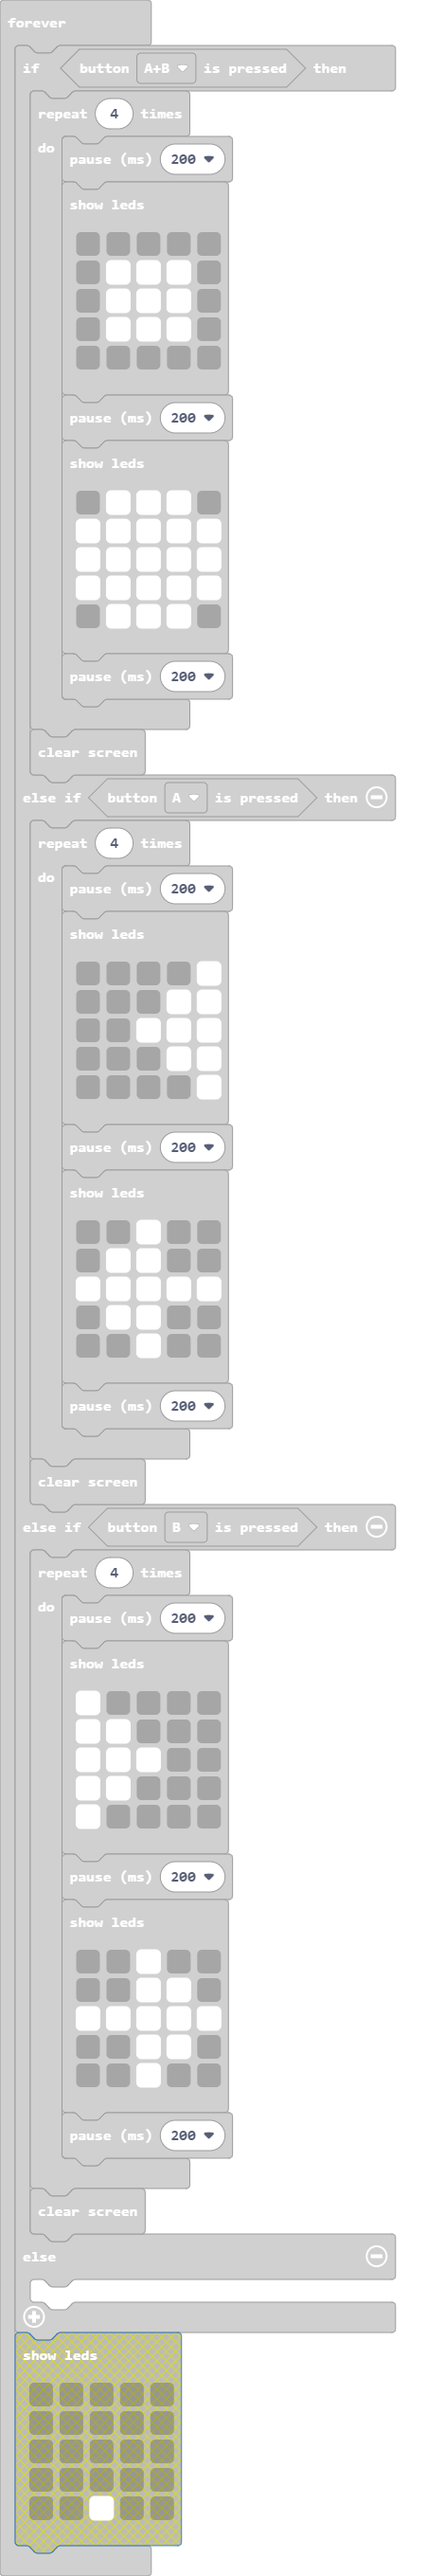
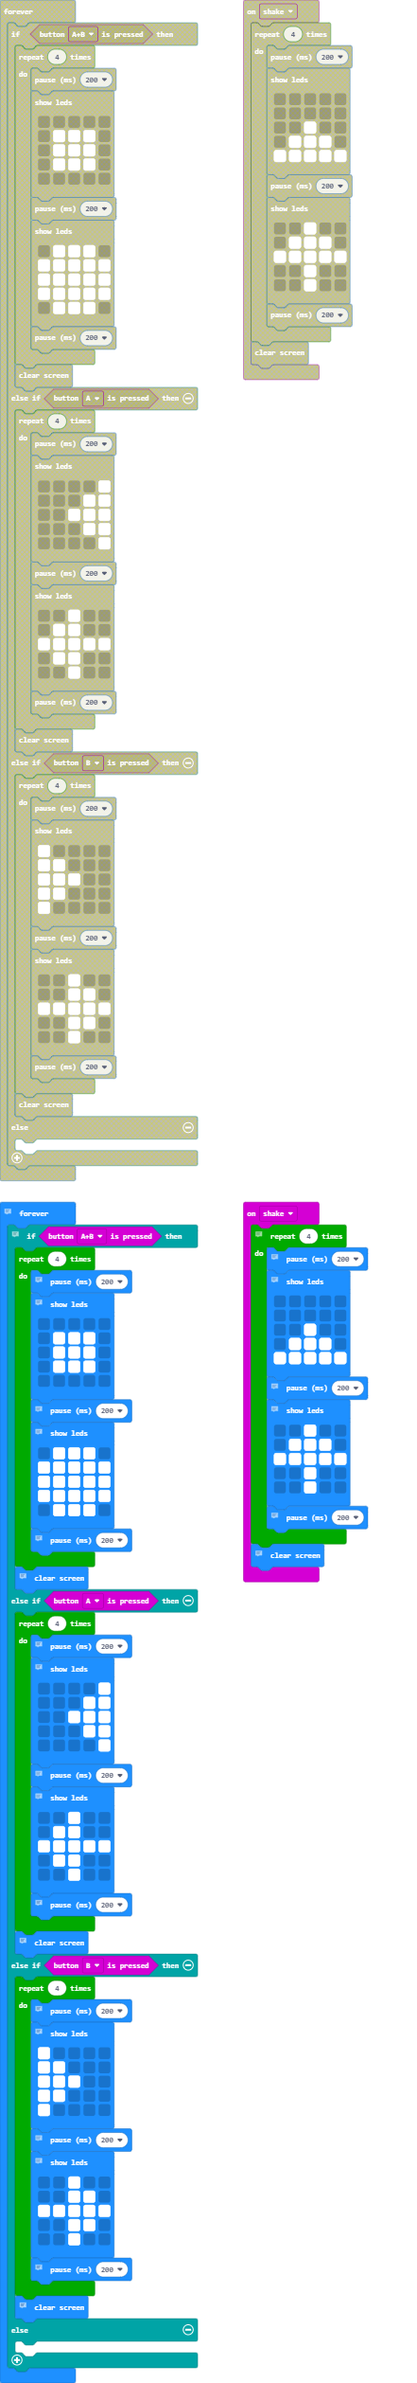
code commented

diff --git a/main.ts b/main.ts
@@ -1,6 +1,10 @@
 input.onGesture(Gesture.Shake, function () {
+    // acción que se desarrolla al agitar el microbit activando el acelerómetro (mostrar flecha hacia arriba que indica movimiento en la bicicleta)
     for (let index = 0; index < 4; index++) {
+        // la flecha hacia arriba va a titilar 4 veces
+        // pausa de 200 milisegundos
         basic.pause(200)
+        // muestra la flecha hacia arriba de forma parcial en pantalla
         basic.showLeds(`
             . . . . .
             . . . . .
@@ -8,7 +12,9 @@ input.onGesture(Gesture.Shake, function () {
             . # # # .
             # # # # #
             `)
+        // pausa de 200 milisegundos
         basic.pause(200)
+        // muestra flecha hacia arriba completa en pantalla
         basic.showLeds(`
             . . # . .
             . # # # .
@@ -16,14 +22,22 @@ input.onGesture(Gesture.Shake, function () {
             . . # . .
             . . # . .
             `)
+        // pausa de 200 milisegundos
         basic.pause(200)
     }
+    // limpiar pantalla cuando la bicicleta esté detenida
     basic.clearScreen()
 })
+// esta parte del código controla a los condicionales de los botones A, B y A+B
 basic.forever(function () {
+    // si se presionan los dos botones A y B al tiempo
+    // este condicional va vacío, incluso no es necesario tenerlo. El único resultado que devuelve es tener la pantalla limpia.
     if (input.buttonIsPressed(Button.AB)) {
         for (let index = 0; index < 4; index++) {
+            // muestre cuatro veces la señal de alto o de detenerse
+            // pausa de 200 milisegundos
             basic.pause(200)
+            // muestre la señal de detenerse de forma parcial en pantalla
             basic.showLeds(`
                 . . . . .
                 . # # # .
@@ -31,7 +45,9 @@ basic.forever(function () {
                 . # # # .
                 . . . . .
                 `)
+            // pausa de 200 milisegundos
             basic.pause(200)
+            // muestre la señal de detenerse de forma completa en pantalla
             basic.showLeds(`
                 . # # # .
                 # # # # #
@@ -39,12 +55,17 @@ basic.forever(function () {
                 # # # # #
                 . # # # .
                 `)
+            // pausa de 200 milisegundos
             basic.pause(200)
         }
+        // limpiar pantalla si la bicicleta se ha frenado o detenido
         basic.clearScreen()
     } else if (input.buttonIsPressed(Button.A)) {
         for (let index = 0; index < 4; index++) {
+            // muestre cuatro veces la flecha hacia la izquierda
+            // pausa de 200 milisegundos
             basic.pause(200)
+            // muestre la flecha izquierda de forma parcial en la pantalla
             basic.showLeds(`
                 . . . . #
                 . . . # #
@@ -52,7 +73,9 @@ basic.forever(function () {
                 . . . # #
                 . . . . #
                 `)
+            // pausa de 200 milisegundos
             basic.pause(200)
+            // muestre la flecha izquierda completa en pantalla
             basic.showLeds(`
                 . . # . .
                 . # # . .
@@ -60,12 +83,17 @@ basic.forever(function () {
                 . # # . .
                 . . # . .
                 `)
+            // pausa de 200 milisegundos
             basic.pause(200)
         }
+        // limpiar pantalla cuando ya no se gire a la izquierda
         basic.clearScreen()
     } else if (input.buttonIsPressed(Button.B)) {
         for (let index = 0; index < 4; index++) {
+            // muestre cuatro veces la flecha hacia la derecha
+            // pausa de 200 milisegundos
             basic.pause(200)
+            // muestre la flecha derecha de forma parcial en la pantalla
             basic.showLeds(`
                 # . . . .
                 # # . . .
@@ -73,7 +101,9 @@ basic.forever(function () {
                 # # . . .
                 # . . . .
                 `)
+            // pausa de 200 milisegundos
             basic.pause(200)
+            // muestre la flecha derecha completa en pantalla
             basic.showLeds(`
                 . . # . .
                 . . # # .
@@ -81,8 +111,10 @@ basic.forever(function () {
                 . . # # .
                 . . # . .
                 `)
+            // pausa de 200 milisegundos
             basic.pause(200)
         }
+        // limpiar pantalla cuando ya no se gire a la derecha
         basic.clearScreen()
     } else {
     	
